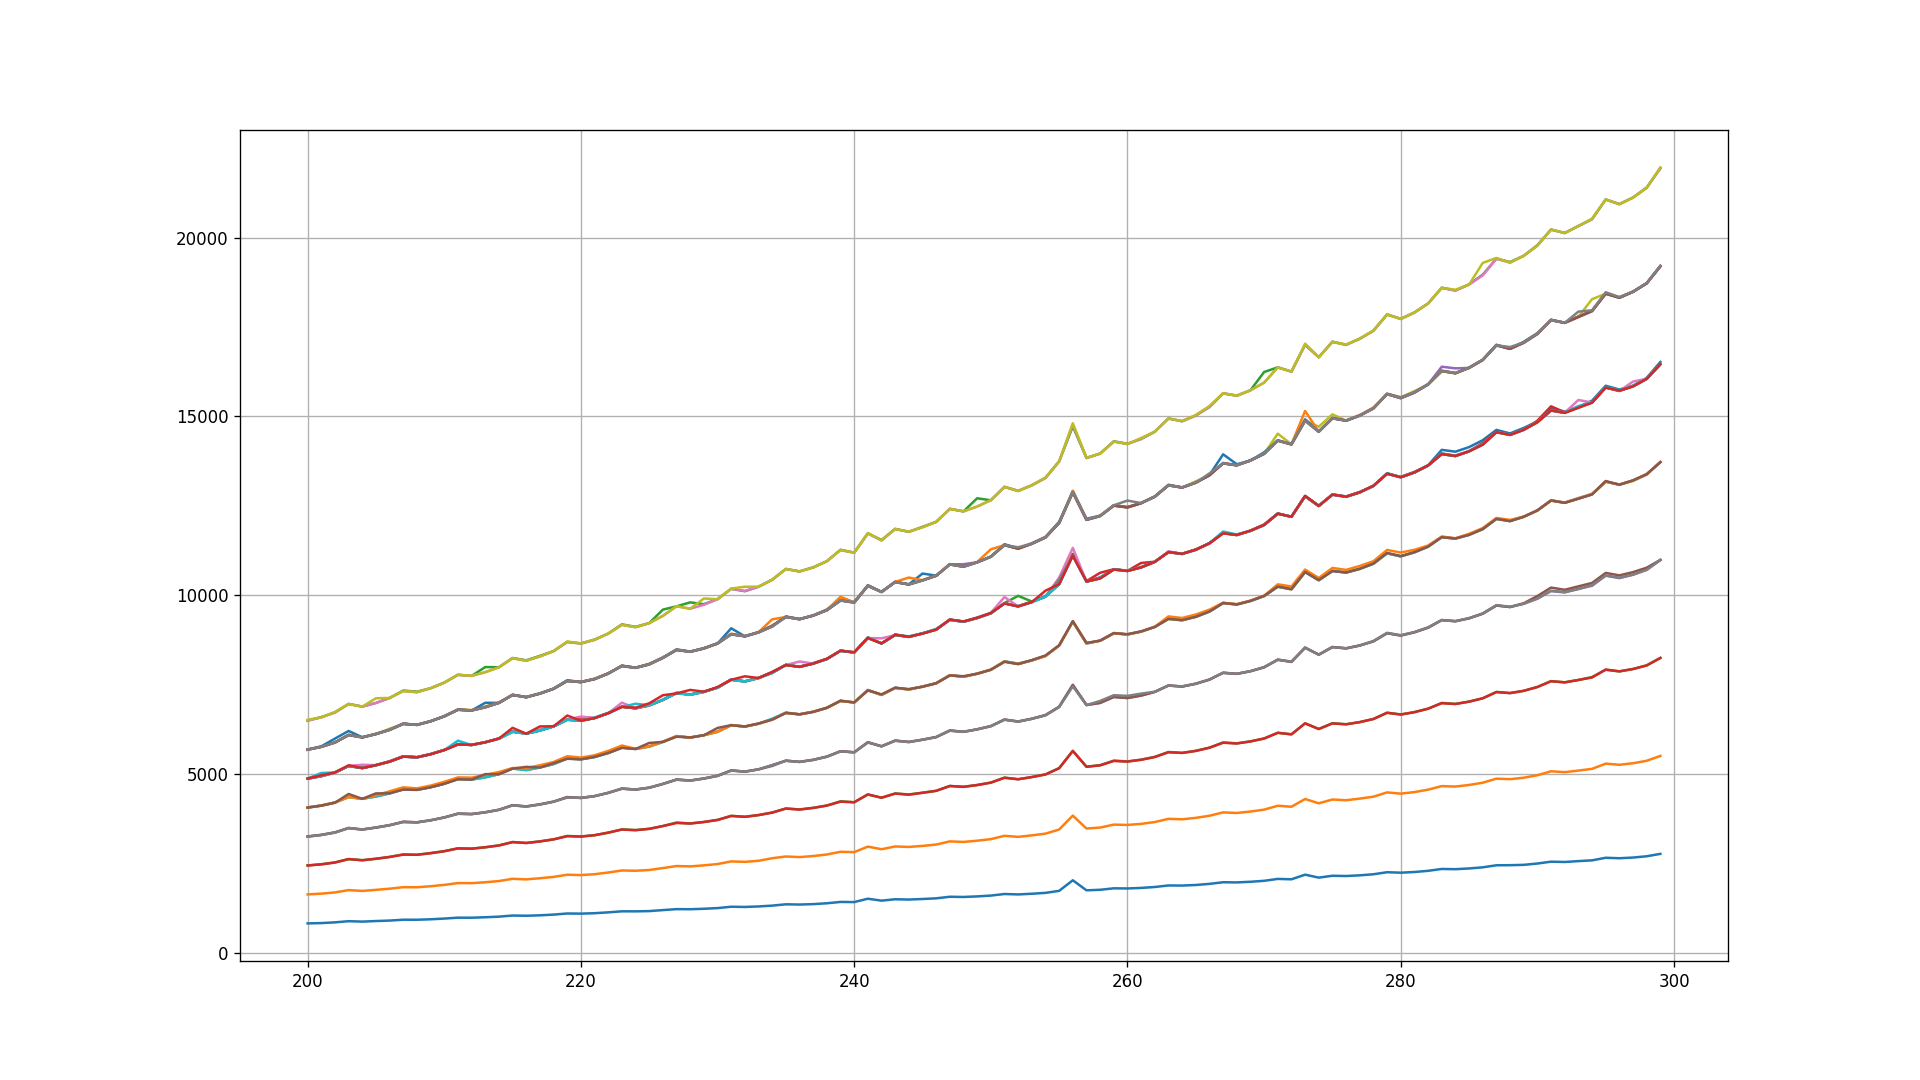
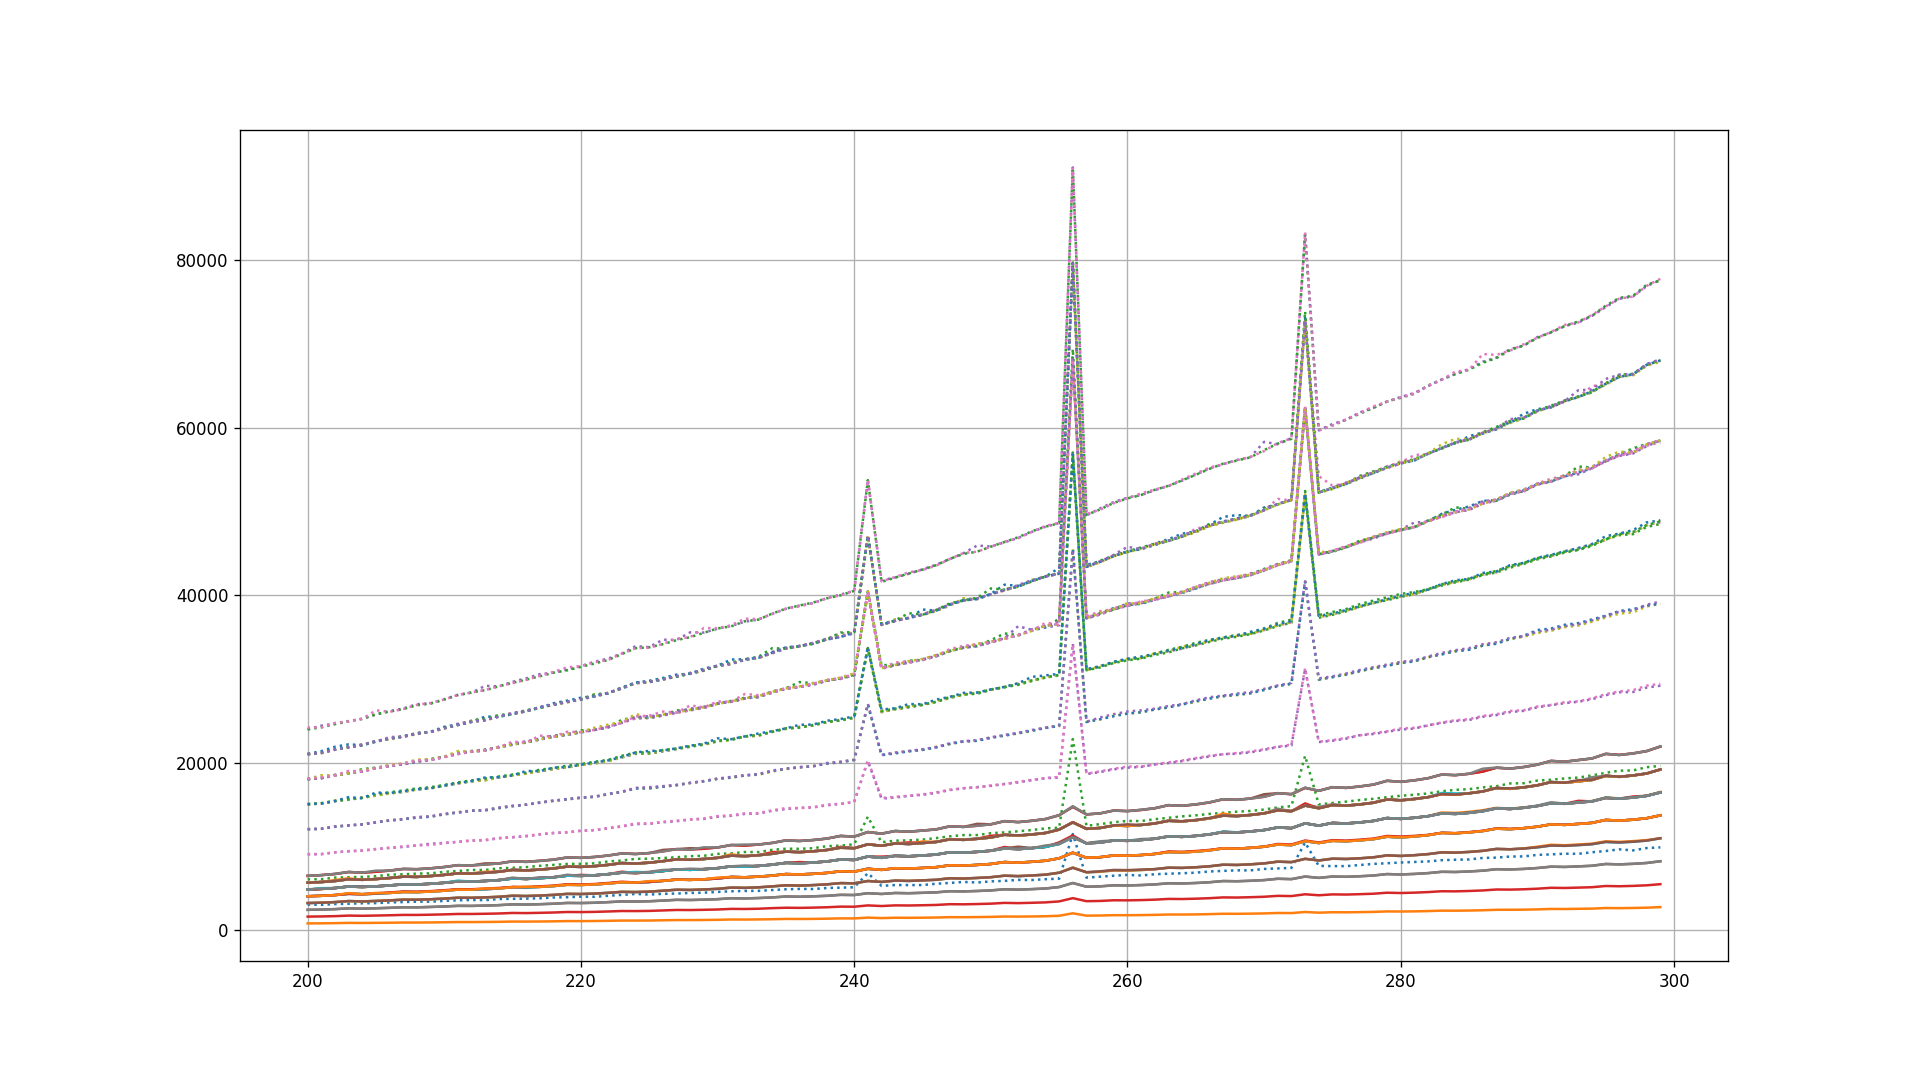
Add figures

diff --git a/plot.py b/plot.py
@@ -24,7 +24,7 @@ for i in range(1, m):
         x.append(csv_input.values[idx, 0])
         neon_y.append(csv_input.values[idx, 2])
         normal_y.append(csv_input.values[idx, 3])
-    # fig = plt.plot(x, normal_y, linestyle="dotted")
+    fig = plt.plot(x, normal_y, linestyle="dotted")
     fig = plt.plot(x, neon_y)
 
 fig = plt.grid(True)
